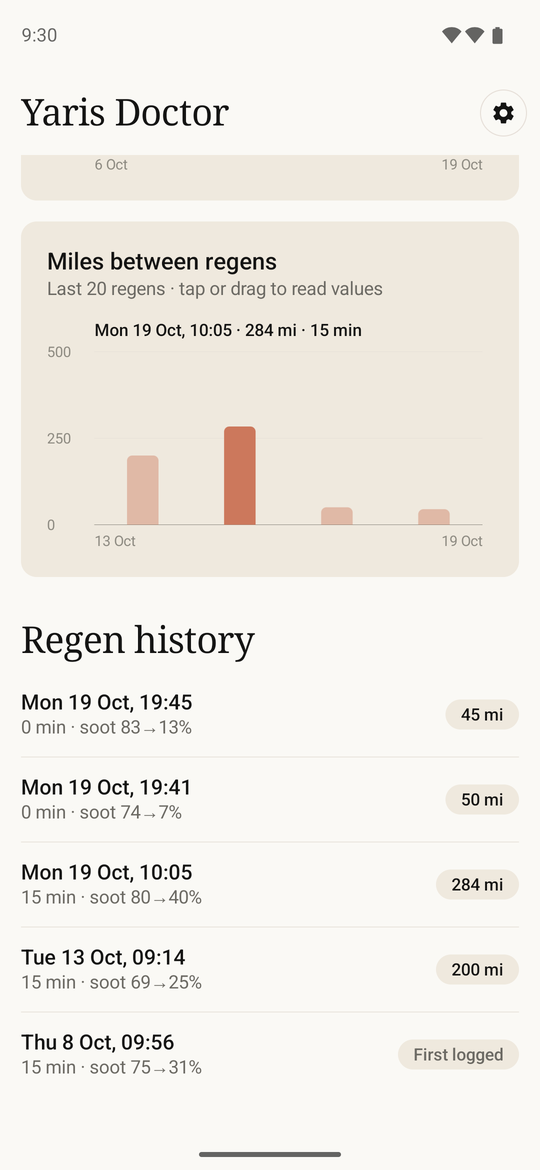
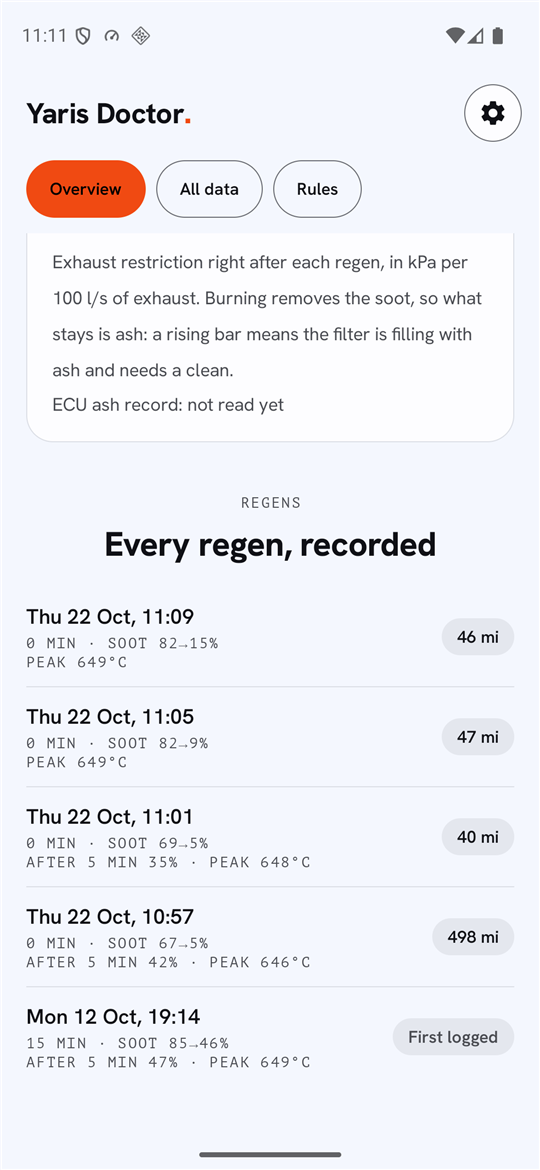
README: new screenshots of the current design
Taken on the S25 emulator in Debug mode: the Overview during a regen with
the edge light, the regen history list, Settings (no DPF codes section any
more) and the regen notification with its burn-off bar.

Claude-Session: https://claude.ai/code/session_01SUMZ4XT56gB277kzJMW7pP

diff --git a/README.md b/README.md
@@ -7,9 +7,9 @@ When the car starts and the dongle powers up, the app connects by itself and log
 It replaces DPFViewer, an earlier ESP32 + TFT dashboard that read the same values.
 
 <p align="center">
-  <img src="docs/screenshots/main-regen.png" width="200" alt="Main screen during a regen: Keep driving callout, soot load, miles since last regen, soot chart, with the coral edge light">
-  <img src="docs/screenshots/history.png" width="200" alt="Miles-between-regens chart and regen history">
-  <img src="docs/screenshots/settings.png" width="200" alt="Settings: dongle, logging, notifications, edge light and units">
+  <img src="docs/screenshots/main-regen.png" width="200" alt="Overview during a regen: health warnings, the Keep driving callout and the soot load card, with the coral edge light">
+  <img src="docs/screenshots/history.png" width="200" alt="Regen history: each regen with its duration, soot before and after, soot 5 min later, peak DPF temperature and distance since the previous one">
+  <img src="docs/screenshots/settings.png" width="200" alt="Settings: dongle, logging, regen notification, Live Updates, edge light, units and model year">
 </p>
 <p align="center">
   <img src="docs/screenshots/notification.png" width="400" alt="Regen notification with temperature, soot and burn-off progress">
